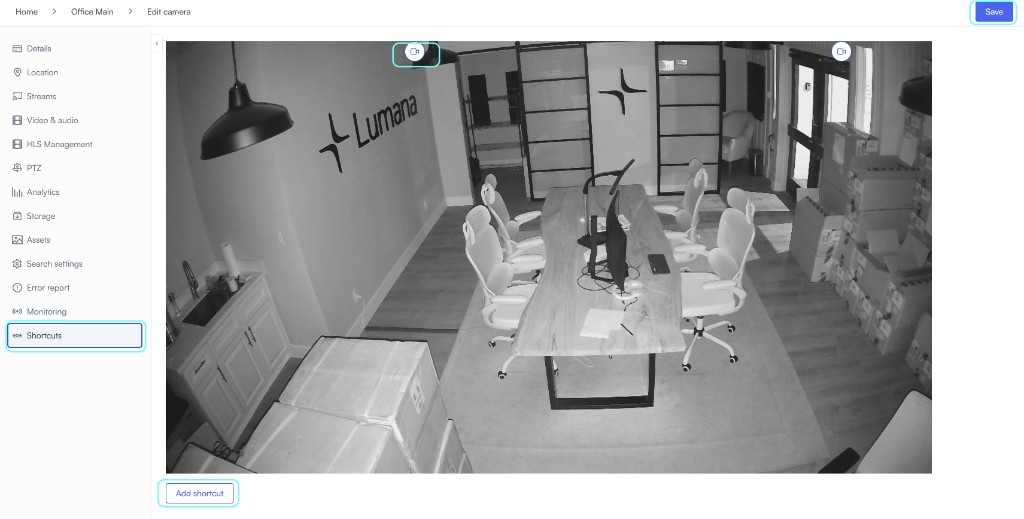
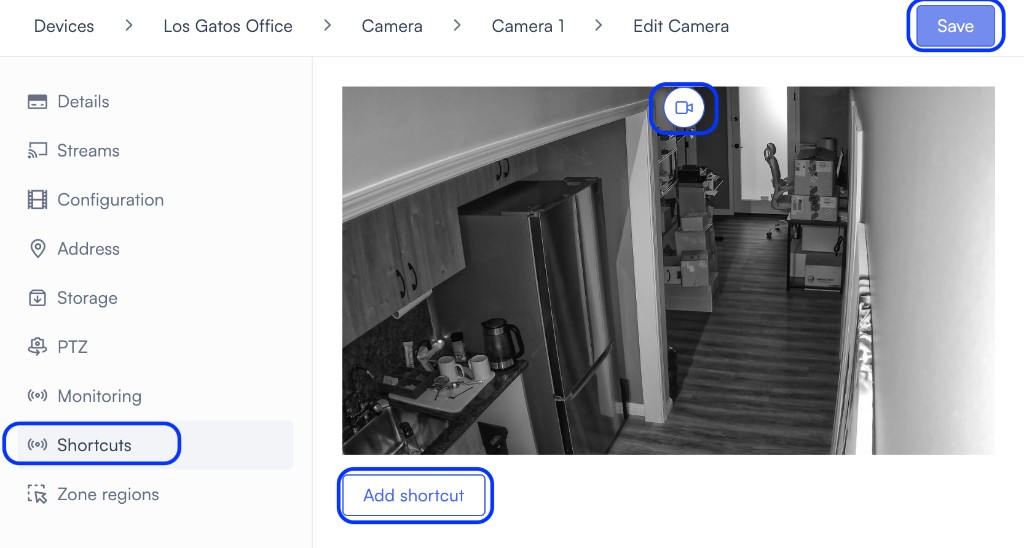
updated steps

diff --git a/set-up-cameras-and-devices/create-camera-shortcuts.md b/set-up-cameras-and-devices/create-camera-shortcuts.md
@@ -18,14 +18,15 @@
 
 In **Edit camera**, open **Shortcuts** to see the live image, shortcut pins, **Add shortcut**, and **Save**.
 
-<div align="center" data-with-frame="true"><img src="../.gitbook/assets/set-up-cameras-and-devices/create-camera-shortcuts/edit-camera-shortcuts.png" alt="" width="563"></div>
+<div align="center" data-with-frame="true"><img src="../.gitbook/assets/set-up-cameras-and-devices/create-camera-shortcuts/edit-camera-shortcuts.png" alt="Edit camera with Shortcuts selected, live image, Add shortcut, and Save." width="563"></div>
 
 1. Open the camera where you want shortcuts, then select **Edit camera**.
 2. In the left sidebar, select **Shortcuts**.
 3. Select **Add shortcut**.
-4. Place the shortcut on the part of the image where you want it.
-5. If you need more shortcuts on the same camera, then repeat steps 3 and 4.
-6. Select **Save**.
+4. Select the camera you want the shortcut to open (the alternative view).
+5. Place the shortcut on the part of the image where you want it.
+6. If you need more shortcuts on the same camera, repeat steps 3 through 5.
+7. Select **Save**.
 
 Go back to the camera’s live view. A shortcut can open the linked camera in a picture-in-picture panel, or switch the main view depending on your layout.
 

diff --git a/set-up-cameras-and-devices/camera-networking-options.md b/set-up-cameras-and-devices/camera-networking-options.md
@@ -24,8 +24,6 @@ Use **Camera VPN** in the Lumana portal to access your camera’s native web int
 
    Lumana opens the camera manufacturer’s login page.
 
-<div align="center" data-with-frame="true"><img src="../.gitbook/assets/manufacturer-vpn-login-redirect.png" alt="Manufacturer VPN login redirect" width="563"></div>
-
 3. Enter your camera credentials on that page to sign in. Configure settings in the manufacturer’s web interface as your deployment requires.
 
 <div align="center" data-with-frame="true"><img src="../.gitbook/assets/hikvision-manufacturer-login.png" alt="Hikvision manufacturer login page" width="563"></div>
